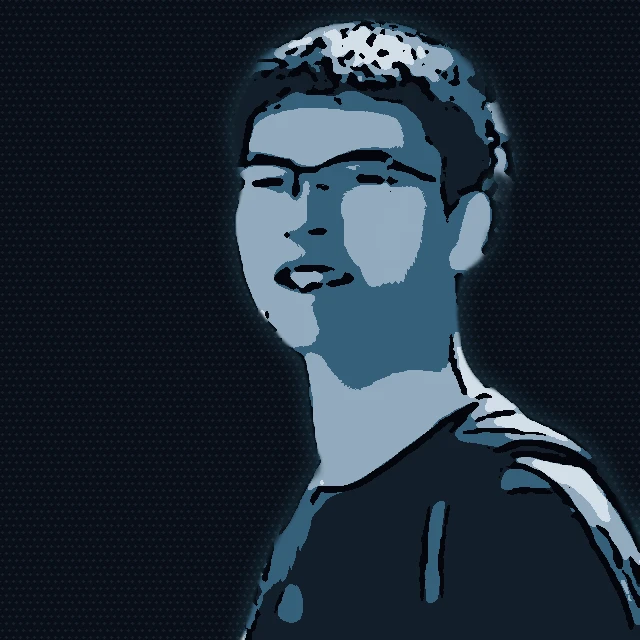
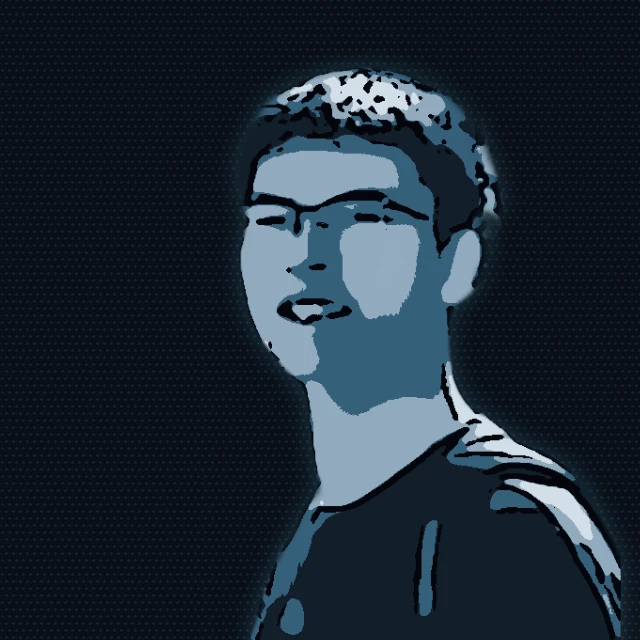
- (standby) initiate button glow ! (rail) last section lights at page bottom; clicks mark their target ~ portrait recentered in the hero ring; og card refreshed

Changed region(s): [[0.3438, 0.0312, 1.0, 1.0], [0.625, 0.7812, 0.7188, 0.9688]]

diff --git a/src/lib/sections/SectionRail.svelte b/src/lib/sections/SectionRail.svelte
@@ -9,17 +9,35 @@
 	}));
 
 	let activeId = $state(items[0].id);
+	let holdUntil = 0;
+
+	// A click marks its target immediately and holds it while the smooth scroll runs;
+	// scrollspy resumes afterward.
+	const lockOnClick = (id: string) => {
+		activeId = id;
+		holdUntil = performance.now() + 1500;
+	};
 
 	// Sections are ranked against a band across the upper middle of the viewport; the first one
-	// in document order that touches it owns the rail, and the last winner sticks over the
-	// hero and the footer, where no section reaches the band.
+	// in document order that touches it owns the rail. At the very bottom the last section wins
+	// outright: a short final section can never reach the band on a tall viewport.
 	$effect(() => {
 		const inBand: Record<string, boolean> = {};
+		const atBottom = () =>
+			window.scrollY + window.innerHeight >= document.documentElement.scrollHeight - 4;
+		const choose = () => {
+			if (performance.now() < holdUntil) return;
+			if (atBottom()) {
+				activeId = items[items.length - 1].id;
+				return;
+			}
+			const first = items.find(({ id }) => inBand[id]);
+			if (first) activeId = first.id;
+		};
 		const observer = new IntersectionObserver(
 			(entries) => {
 				for (const entry of entries) inBand[entry.target.id] = entry.isIntersecting;
-				const first = items.find(({ id }) => inBand[id]);
-				if (first) activeId = first.id;
+				choose();
 			},
 			{ rootMargin: '-30% 0px -55% 0px' }
 		);
@@ -27,7 +45,11 @@
 			const section = document.getElementById(id);
 			if (section) observer.observe(section);
 		}
-		return () => observer.disconnect();
+		window.addEventListener('scroll', choose, { passive: true });
+		return () => {
+			observer.disconnect();
+			window.removeEventListener('scroll', choose);
+		};
 	});
 </script>
 
@@ -35,7 +57,12 @@
 	{#each items as { label, href, id, index } (href)}
 		{@const current = id === activeId}
 		<!-- eslint-disable-next-line svelte/no-navigation-without-resolve -- same-page fragment anchors; nothing to resolve -->
-		<a {href} class:active={current} aria-current={current ? 'location' : undefined}>
+		<a
+			{href}
+			class:active={current}
+			aria-current={current ? 'location' : undefined}
+			onclick={() => lockOnClick(id)}
+		>
 			<span class="index">{index}</span>
 			<span class="label">{label}</span>
 		</a>

diff --git a/src/lib/launch/StandbyPanel.svelte b/src/lib/launch/StandbyPanel.svelte
@@ -84,14 +84,9 @@
 		border: none;
 		padding: 16px clamp(20px, 4vw, 34px);
 		cursor: pointer;
-		animation: kGlow 2.4s ease-in-out infinite;
 
 		&:hover {
 			background: var(--color-cyan);
-		}
-
-		@media (prefers-reduced-motion: reduce) {
-			animation: none;
 		}
 	}
 
